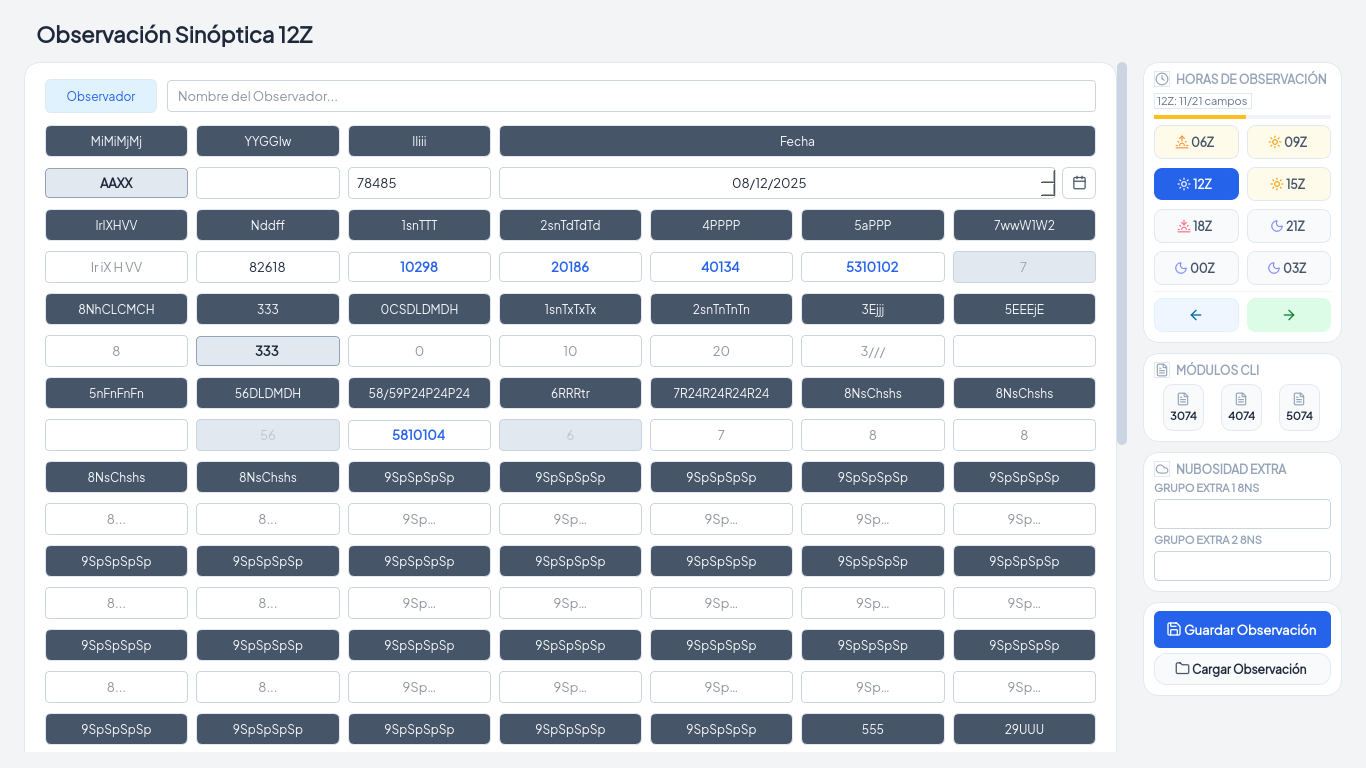
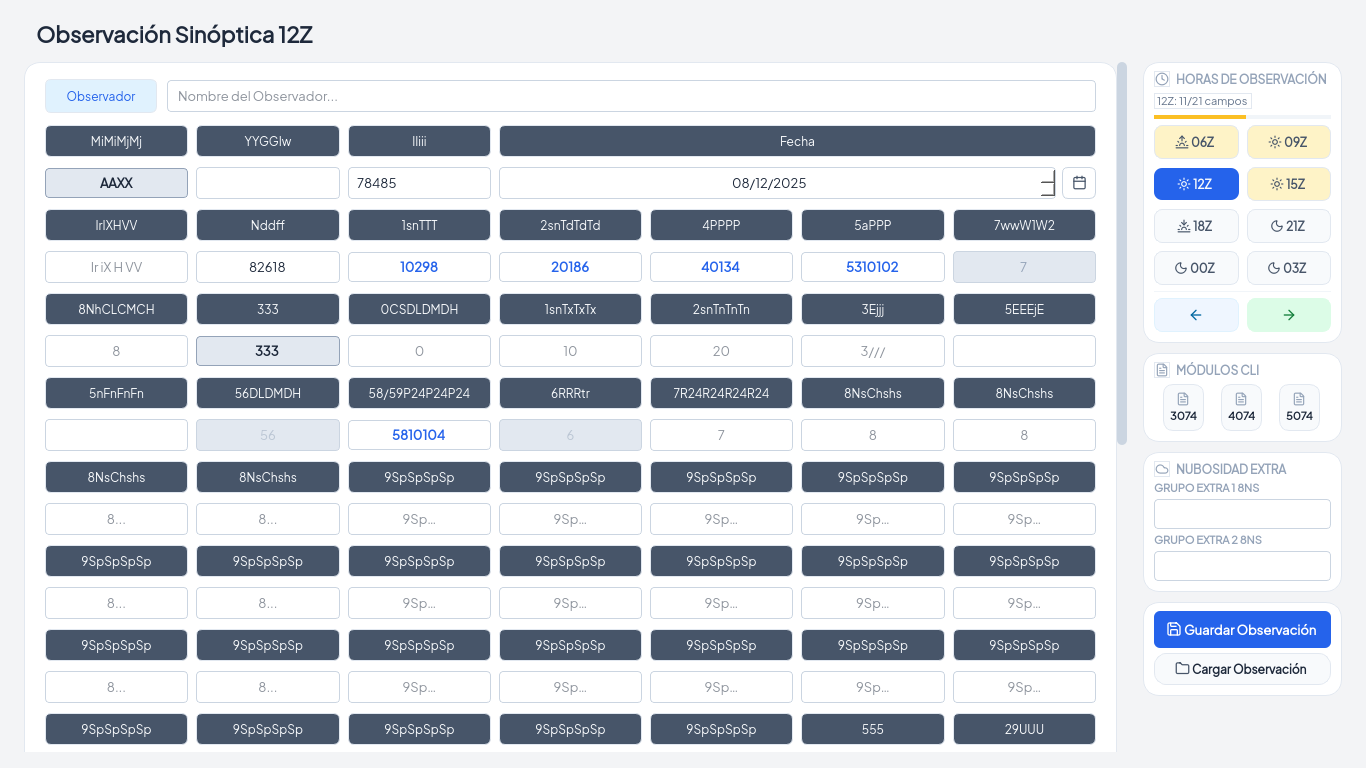
refactor(synoptic): fuera el tema por hora, el selector usa el acento único (F4, corte 5)
`HOUR_THEMES` guardaba el cielo de cada hora (from/to/accent/text) y teñía los
botones y los rótulos con él. El degradado de fondo se eliminó con la regla de
«cero degradados», el acento ya salía de la paleta desde el corte 3, y quedaba
el diccionario vivo sin motivo: se elimina.

`HOUR_ICONS` deja de llevar color propio — ahora es hora -> nombre de icono
(sunrise/sun/sunset/moon). El icono dice la hora; el color dice el estado, y
sale de la paleta: activo con `$acento` y `$banda_texto`, inactivo con el tinte
de avance (`ambar_fondo` a medias, `ok_fondo` completo, `panel_alt` vacío).

`_style_hour_button` pierde el parámetro de acento y los dos `#ffffff` que
quedaban en los rótulos con acento pasan a `$banda_texto`.

El test del cielo por hora se migra a la regla nueva en vez de borrarse:
comprueba que `HOUR_THEMES` ya no existe, que el módulo no la menciona y que
`HOUR_ICONS` sigue teniendo las ocho horas como nombres de icono.

Capturas verificadas en claro y en oscuro. 835 passed, EXIT=0, sin avisos de
parseo. Con esto F4 queda cerrada.

Changed region(s): [[0.8302, 0.1562, 0.9839, 0.2812]]

diff --git a/oms_ui/pages/synoptic.py b/oms_ui/pages/synoptic.py
@@ -285,35 +285,19 @@ def _progress_qss(chunk: str) -> str:
     )
 
 
-#: Hour themes verbatim from synopticConfig.hourThemes: the page is a
-#: bg-gradient-to-br surface whose stops, accent chips and title text
-#: follow the observation hour ("escala de azules según altura del sol").
-HOUR_THEMES: dict[str, dict[str, str]] = {
-    # hora local RD = UTC-4; cada par from/to es el cielo real de esa hora:
-    # 00Z=20:00 dusk (violeta cayendo a indigo), 03Z=23:00 noche, 06Z=02:00
-    # noche profunda, 09Z=05:00 amanecer (azul noche + ambar al horizonte),
-    # 12Z=08:00 mañana azul cielo, 15Z=11:00 mediodia pleno, 18Z=14:00
-    # tarde luminosa, 21Z=17:00 golden hour (violeta alto + dorado bajo).
-    "00Z": {"from": "#4a3a7a", "to": "#1e1b4b", "accent": "#4a3a7a", "text": "#e2e8f0"},
-    "03Z": {"from": "#172554", "to": "#0b1026", "accent": "#172554", "text": "$acento_suave"},
-    "06Z": {"from": "#0f172a", "to": "#020617", "accent": "#1e293b", "text": "#e2e8f0"},
-    "09Z": {"from": "#1e2a5a", "to": "#b45309", "accent": "#35426b", "text": "$ambar_fondo"},
-    "12Z": {"from": "#38bdf8", "to": "#93c5fd", "accent": "#0369a1", "text": "#0c4a6e"},
-    "15Z": {"from": "#0ea5e9", "to": "#7dd3fc", "accent": "#0284c7", "text": "#0c4a6e"},
-    "18Z": {"from": "#22b8ea", "to": "#67e8f9", "accent": "#0e7490", "text": "#0c4a6e"},
-    "21Z": {"from": "#614e72", "to": "#f59e0b", "accent": "#6d28d9", "text": "#fef3c7"},
-}
 
 #: lucide icon per hour selector button (oracle JSX hour-icons mapping).
-HOUR_ICONS: dict[str, tuple[str, str]] = {
-    "06Z": ("sunrise", "#fb923c"),
-    "09Z": ("sun", "#f59e0b"),
-    "12Z": ("sun", "#f59e0b"),
-    "15Z": ("sun", "#f59e0b"),
-    "18Z": ("sunset", "#fb7185"),
-    "21Z": ("moon", "#818cf8"),
-    "00Z": ("moon", "#818cf8"),
-    "03Z": ("moon", "#818cf8"),
+#: Icono por hora del selector: sol, amanecer o luna. Sin color propio — el
+#: color sale de la paleta, que es lo único que distingue el estado.
+HOUR_ICONS: dict[str, str] = {
+    "06Z": "sunrise",
+    "09Z": "sun",
+    "12Z": "sun",
+    "15Z": "sun",
+    "18Z": "sunset",
+    "21Z": "moon",
+    "00Z": "moon",
+    "03Z": "moon",
 }
 
 #: slate-600 header chips (oracle tableHeader slate bg; square corners).
@@ -606,23 +590,31 @@ class SynopticPage(QWidget):
             self._place_toast()
             self._status_timer.start()
 
-    def _style_hour_button(self, hora: str, accent: str) -> None:
-        """One hour button: active gets the accent, others keep the fill tint"""
+    def _style_hour_button(self, hora: str) -> None:
+        """Botón de hora: el activo lleva el acento, el resto el tinte de avance.
+
+        El icono (sol, amanecer, luna) dice la hora; el color no depende de ella.
+        """
+        paleta = theme_mod.palette_actual()
         button = self.hour_buttons[hora]
         active = hora == self.active_hour
         if active:
-            button.setStyleSheet(
-                f"QPushButton {{ background-color: {accent}; color: #ffffff;"
+            button.setStyleSheet(_qss(
+                "QPushButton { background-color: $acento; color: $banda_texto;"
                 "border: none; border-radius: 8px; padding: 8px 6px;"
                 "font-weight: 700; font-size: 12px; }"
-            )
+            ))
         else:
-            fill = button.property("fill") or "empty"
-            tint = {"part": "#fffbeb", "ok": "#ecfdf5"}.get(str(fill), "#f8fafc")
+            fill = str(button.property("fill") or "empty")
+            tint = {"part": paleta["ambar_fondo"], "ok": paleta["ok_fondo"]}.get(
+                fill, paleta["panel_alt"]
+            )
             button.setStyleSheet(_qss(_hour_button_qss(tint)))
-        icon_name, base_color = HOUR_ICONS[hora]
+        icon_name = HOUR_ICONS[hora]
         button.setIcon(lucide_icon(
-            icon_name, "#ffffff" if active else base_color, 14
+            icon_name,
+            paleta["banda_texto"] if active else paleta["suave"],
+            14,
         ))
         button.setIconSize(QSize(14, 14))
 
@@ -648,7 +640,7 @@ class SynopticPage(QWidget):
         for chip in (self.observer_label, *self._primary_headers):
             chip.setStyleSheet(chip_qss)
         for hora in self.hour_buttons:
-            self._style_hour_button(hora, accent)
+            self._style_hour_button(hora)
         self.save_btn.setStyleSheet(
             f"QPushButton {{ background-color: {paleta['acento']};"
             f" color: {paleta['superficie']};"
@@ -676,10 +668,10 @@ class SynopticPage(QWidget):
             if accent is None:
                 label.setStyleSheet(_qss(_HEADER_QSS))
             else:
-                label.setStyleSheet(
-                    f"background-color: {accent}; color: #ffffff;"
+                label.setStyleSheet(_qss(
+                    "background-color: $acento; color: $banda_texto;"
                     "font-weight: 700; font-size: 12px; padding: 7px 6px;"
-                )
+                ))
                 self._primary_headers.append(label)
             grid.addWidget(label, row, col, 1, span)
             col += span
@@ -1807,7 +1799,7 @@ class SynopticPage(QWidget):
             )
             if button.property("fill") != fill:
                 button.setProperty("fill", fill)
-                self._style_hour_button(hora, HOUR_THEMES.get(self.active_hour, HOUR_THEMES["06Z"])["accent"])
+                self._style_hour_button(hora)
         active = synoptic_service.hour_completion(
             self.observations.get(self.active_hour) or {}, self.active_hour
         )

diff --git a/tests/test_f4_ui.py b/tests/test_f4_ui.py
@@ -1257,24 +1257,26 @@ def QApplication_events(widget):
 # ---------------------------------------------------------------- round 9: sky transition
 
 
-def test_hour_themes_trace_the_real_sky(qtbot, fresh_db, tmp_path):
-    """Owner round 9: the background is a DAY-LIGHT transition — noon hours
-    sky-blue, 21Z golden-hour (violet->amber), 00Z dusk purple, deep night
-    hours near-black navy; adjacent hours must differ noticeably."""
-    from oms_ui.pages.synoptic import HOUR_THEMES
+def test_los_botones_de_hora_no_tienen_color_por_hora():
+    """El selector dice la hora con el icono y el estado con el acento.
 
-    assert HOUR_THEMES["12Z"]["from"] == "#38bdf8"   # 08:00 cielo
-    assert HOUR_THEMES["15Z"]["from"] == "#0ea5e9"   # mediodía
-    assert HOUR_THEMES["21Z"]["to"] == "#f59e0b"     # golden hour ámbar
-    assert HOUR_THEMES["00Z"]["from"] == "#4a3a7a"   # 20:00 dusk violeta
-    assert HOUR_THEMES["06Z"]["to"] == "#020617"     # noche profunda
-    # the transition actually moves: no two adjacent local hours identical
-    order = ("06Z", "09Z", "12Z", "15Z", "18Z", "21Z", "00Z", "03Z")
-    from itertools import pairwise
+    `HOUR_THEMES` guardaba el cielo de cada hora (from/to/accent/text) y teñía
+    los botones con él. El fondo por hora se eliminó con los degradados y el
+    acento pasó a ser único: lo que sobrevive es el icono (sol, amanecer, luna),
+    que informa la hora sin depender del color.
+    """
+    from pathlib import Path
 
-    for prev, nxt in pairwise(order):
-        assert HOUR_THEMES[prev]["from"] != HOUR_THEMES[nxt]["from"]
+    from oms_ui.pages import synoptic as pagina
 
+    assert not hasattr(pagina, "HOUR_THEMES")
+    fuente = (
+        Path(__file__).resolve().parents[1] / "oms_ui" / "pages" / "synoptic.py"
+    ).read_text(encoding="utf-8")
+    assert "HOUR_THEMES" not in fuente
+    # los iconos por hora siguen existiendo, y sólo como nombre de icono
+    assert set(pagina.HOUR_ICONS) == {"06Z", "09Z", "12Z", "15Z", "18Z", "21Z", "00Z", "03Z"}
+    assert all(isinstance(v, str) for v in pagina.HOUR_ICONS.values())
 
 def test_el_selector_marca_la_hora_aunque_el_fondo_no_cambie(qtbot, fresh_db, tmp_path):
     """Píxeles clavados: el fondo plano no se mueve; la hora la marca el selector."""
